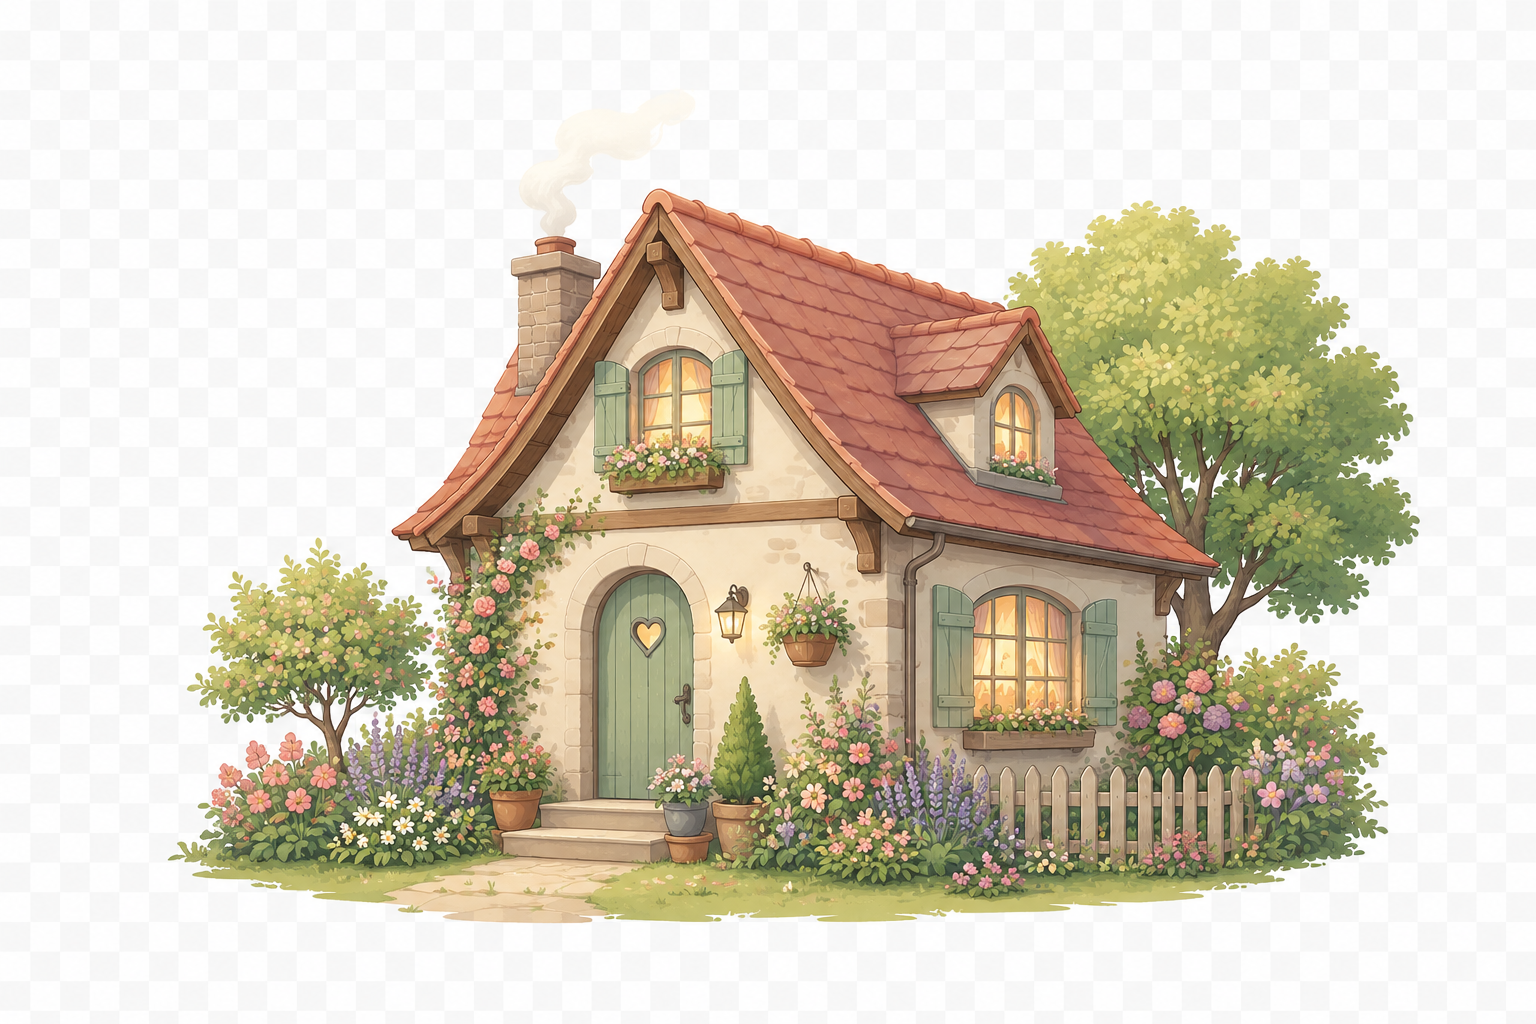
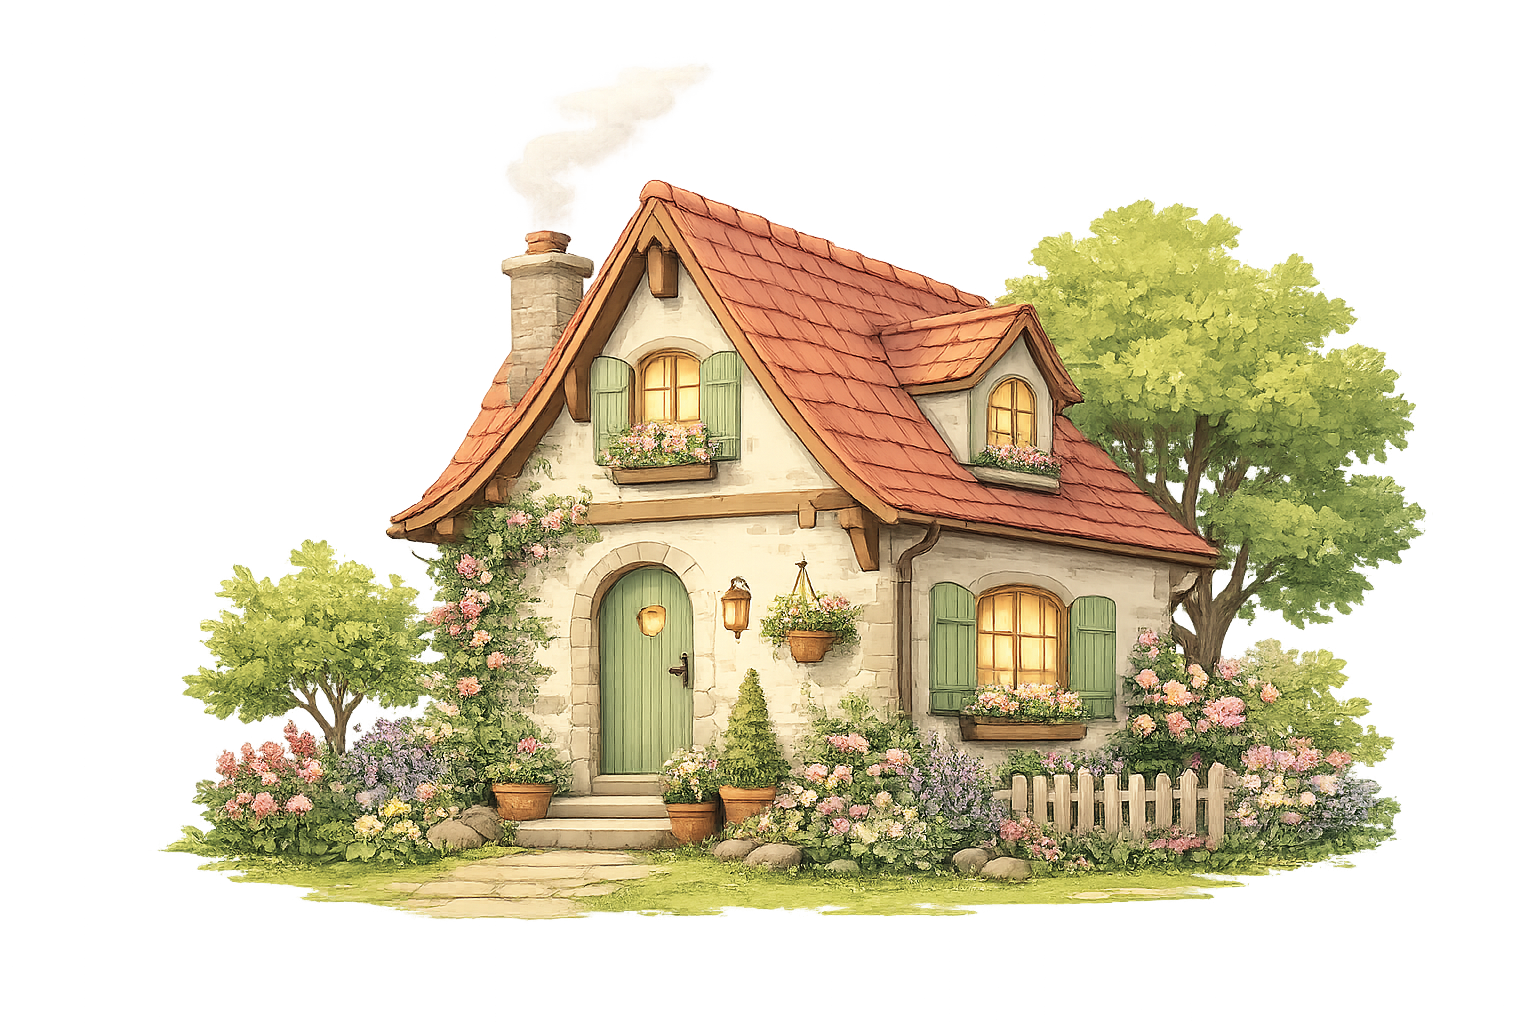
add house to overview

diff --git a/src/pages/OverviewPage.tsx b/src/pages/OverviewPage.tsx
@@ -127,14 +127,14 @@ export function OverviewPage({ dashboard, projectionYears }: OverviewPageProps) 
         </div>
       </div>
 
-      <div className="pointer-events-none absolute -left-4 right-0 bottom-0 z-20 h-72 overflow-visible sm:-left-6 sm:h-80 md:-left-8 md:h-88">
+      <div className="pointer-events-none absolute -left-4 right-0 -bottom-3 z-20 h-72 overflow-visible sm:-left-6 sm:h-80 md:-left-8 md:h-88">
         <FlowerAccent
-          className="bottom-6 left-0 h-44 w-36 sm:left-2 sm:h-52 sm:w-44 md:left-4 md:h-56 md:w-48"
+          className="bottom-0 left-0 h-44 w-36 sm:left-2 sm:h-52 sm:w-44 md:left-4 md:h-56 md:w-48"
           position="left bottom"
           size="21rem auto"
         />
         <FlowerAccent
-          className="bottom-6 left-44 h-40 w-36 sm:left-56 sm:h-48 sm:w-44 md:left-68 md:h-52 md:w-48 xl:left-76"
+          className="bottom-0 left-44 h-40 w-36 sm:left-56 sm:h-48 sm:w-44 md:left-68 md:h-52 md:w-48 xl:left-76"
           position="right bottom"
           size="21rem auto"
         />
@@ -146,6 +146,12 @@ export function OverviewPage({ dashboard, projectionYears }: OverviewPageProps) 
           />
         </div>
       </div>
+      <img
+        className="pointer-events-none absolute -bottom-2 right-2 z-20 w-48 object-contain sm:w-64 md:-bottom-1 md:right-6 md:w-80 xl:w-96"
+        src="/images/dream-house.png"
+        alt=""
+        aria-hidden="true"
+      />
     </section>
   );
 }